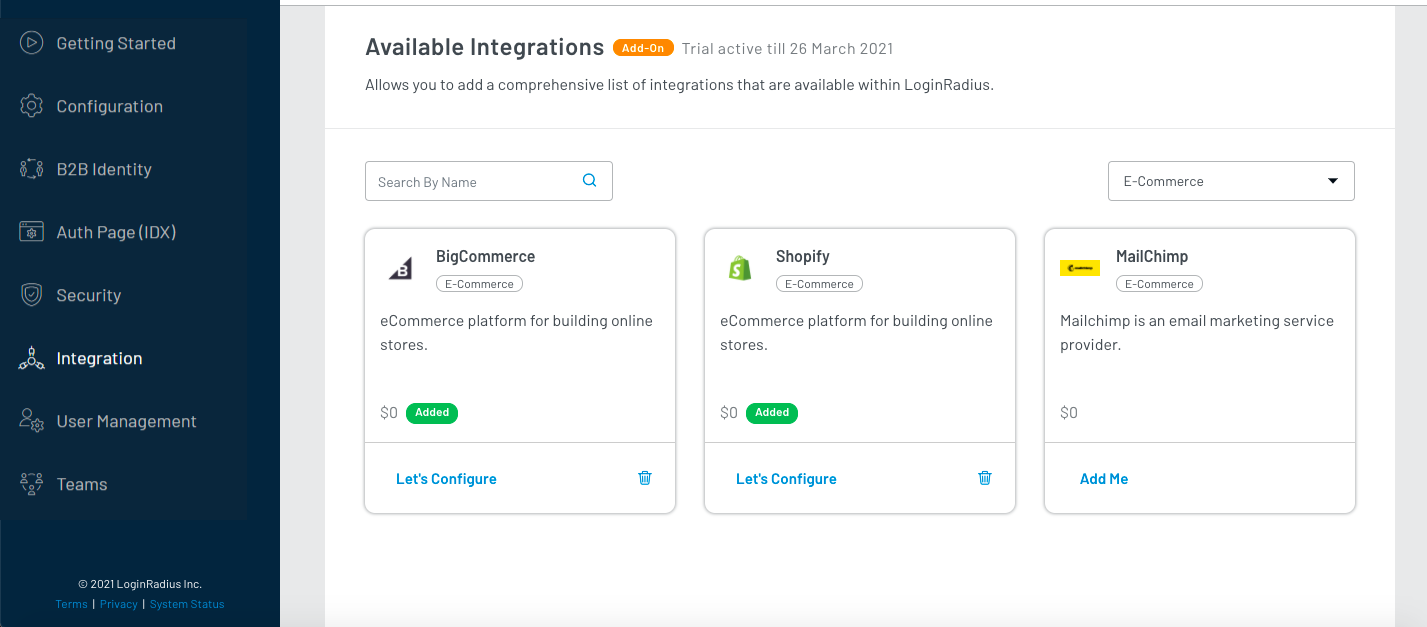
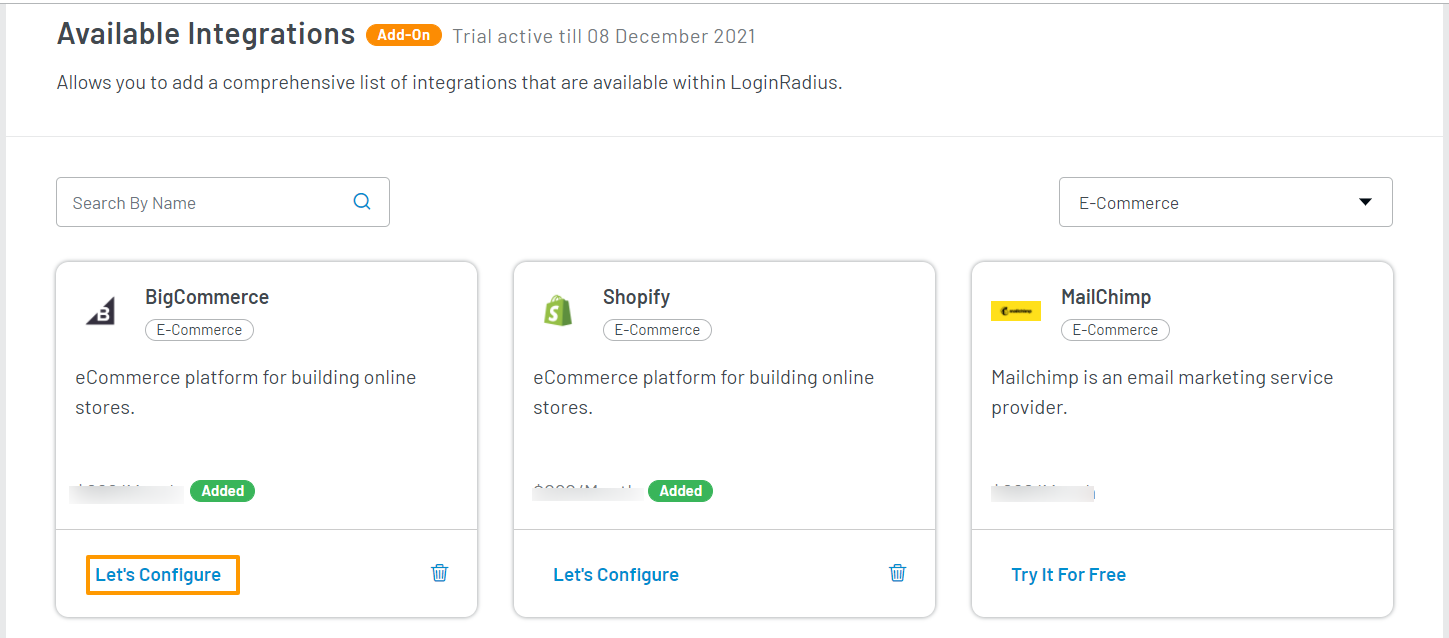
BigCommerce except passwordless

diff --git a/content/guide/big-commerce/index.md b/content/guide/big-commerce/index.md
@@ -1,6 +1,6 @@
 ---
 title: "Integrating BigCommerce"
-tags: ["Big Commerce", "BigCommerce"]
+tags: ["Big Commerce", "BigCommerce", " Passwordless BigCommerce"]
 description: "This is a guide for integrating and configuring BigCommerce in the LoginRadius Identity Platform using Stencil Plugin."
 path: "/guide/big-commerce"
 ---
@@ -11,14 +11,6 @@ path: "/guide/big-commerce"
 # BigCommerce
 
 This document provides instructions for installing the LoginRadius CIAM Plugin for Bigcommerce. This document also covers deploying the LoginRadius template code to your Stencil theme.
-
-## Get Credentials
-
-Before configuring the LoginRadius app in the Bigcommerce environment, you need to get your **API Key** and **API Secret**.
-
-In your LoginRadius Dashboard, navigate to <a href="https://dashboard.loginradius.com/configuration" target="_blank">**Configuration > API Credentials**</a> and click the **API Key And Secret** subsection to retrieve your API Credentials.
-
-![alt_text](../../assets/blog-common/api-credentials.png "image_tooltip")
 
 ## BigCommerce Configuration
 
@@ -38,7 +30,7 @@ In your LoginRadius Dashboard, navigate to <a href="https://dashboard.loginradiu
 
 5. Select the newly installed LoginRadius App on the left navigation (Apps > My Apps).
 
-6. Input your LoginRadius API Key and API Secret obtained from [Get Cedentials](#get-credentials) step and click the **Validate & Install** button.
+6. Input your <a href="https://www.loginradius.com/docs/developer/faq/#how-to-retrieve-api-key-and-secret" target="blank">LoginRadius API Key and API Secret</a> and click the **Validate & Install** button.
 
    ![alt_text](images/bigcommerce-lrinstallconfig.png "image_tooltip")
 
@@ -80,7 +72,7 @@ To support the BigCommerce SSO flows, you will need to handle the following:
 
 2. Click the **Add** button for adding a new BigCommerce app. The configuration options will appear.
 
-3. Either search for **BigCommerce** in the search bar or go to the **Select Category** dropdown and select **E-Commerce** category. Locate **BigCommerce** and click the **Add Me** option.
+3. Either search for **BigCommerce** in the search bar or go to the **Select Category** dropdown and select **E-Commerce** category. Locate **BigCommerce** and click the **Try It For Free** option.
 
    ![alt_text](images/bigcommerce-integration-search-results.png "image_tooltip")
 
@@ -100,8 +92,11 @@ To support the BigCommerce SSO flows, you will need to handle the following:
 
    - Store Name: Enter your store name. This should be a string in the API PATH when your BigCommerce ACCESS TOKEN, CLIENT ID, and CLIENT SECRET was generated. E.g. - if your API PATH is `https://api.bigcommerce.com/stores/pqshk245fh/v3/`, then your store name value should be `pqshk245fh`
 
-   - Store URL: Set this to your BigCommerce Store URL. E.g.: `http://<BIGCOMMERCE Store NAME>.mybigcommerce.com`
-
+   - Store URL: Set this to your BigCommerce Store URL. Click the **View Store** option from the left navigation screen to get your store URL:
+      
+      ![alt_text](images/viewstore.png "image_tooltip")
+        
+      
    - Store Login URL: Set this to your BigCommerce Store Login URL. E.g.: `https://<BIGCOMMERCE Store NAME>.mybigcommerce.com/login/token/`
 
    - Access Token: Enter a valid BigCommerce Access Token for an API Account, see this doc on [Creating API Accounts](https://support.bigcommerce.com/s/article/Store-API-Accounts)
@@ -120,7 +115,10 @@ To support the BigCommerce SSO flows, you will need to handle the following:
      | last_name  | LastName  |                              |
      | email      | Other     | Enter value `Email[0].Value` |
 
-     > Note: These are required fields for BigCommerce integration and you should use Key Values in the format given above.
+     > **Note:** These mapped fields are required for BigCommerce integration and you should use Key Values in the format given above. Similalry, you can map additional desired fields. 
+     >
+     > You must add all mapped fields to your <a href="https://www.loginradius.com/docs/developer/guide/custom-registration" target="blank">registration schema</a> as mandatory.
+    
 
 ## Stencil Theme Setup
 
@@ -142,8 +140,8 @@ It is recommended that you backup your theme before making any modifications if 
 
    - `storeName`: Add your BigCommerce Site Name. This should be a string in the API PATH when your BigCommerce ACCESS TOKEN, CLIENT ID, and CLIENT SECRET was generated. E.g. - if your API PATH is `https://api.bigcommerce.com/stores/pqshk245fh/v3/` , then your store name value should be `pqshk245fh`
 
-   - `option.apiKey`: Add your LoginRadius [API Key](#get-credentials).
-   - `option.appName`: Add your LoginRadius [App Name](#get-credentials).
+   - `option.apiKey`: Add your <a href="https://www.loginradius.com/docs/developer/faq/#how-to-retrieve-api-key-and-secret" target="blank">LoginRadius API Key</a>.
+   - `option.appName`: Add your <a href="https://www.loginradius.com/docs/developer/faq/#how-to-retrieve-api-key-and-secret" target="blank">LoginRadius App Name</a>
    - `option.sott`: Add a valid LoginRadius [Sott](https://www.loginradius.com/docs/developer/concepts/sott).
    - `option.verificationUrl`: You can leave this default unless you want to direct users to a specific location to validate the emails. This is required if you are using the Email add/remove the panel. You can add additional parameters to this options object if you want to include additional LoginRadius features or logic based on the parameters list here.
    - `option.askEmailForUnverifiedProfileAlways`: You can leave this `true` if you want consumers to verify their email id. Change it to `false` for consumers to proceed without email verification.
@@ -318,9 +316,9 @@ It is recommended that you backup your theme before making any modifications in 
 
    * `storeName` - Add your BigCommerce Site Name. This should be a string in the API PATH when your BigCommerce ACCESS TOKEN, CLIENT ID, and CLIENT SECRET was generated. E.g. - if your API PATH is `https://api.bigcommerce.com/stores/pqshk245fh/v3/`, then your storeName value should be `pqshk245fh`
 
-   * `option.apiKey` - Add your LoginRadius [API Key](#get-credentials)
+   * `option.apiKey` - Add your <a href="https://www.loginradius.com/docs/developer/faq/#how-to-retrieve-api-key-and-secret" target="blank">LoginRadius API Key</a>
 
-   * `option.appName` - Add your LoginRadius [App Name](#get-credentials)
+   * `option.appName` - Add your <a href="https://www.loginradius.com/docs/developer/faq/#how-to-retrieve-api-key-and-secret" target="blank">LoginRadius App Name</a>
 
    * `option.sott` - Add a valid LoginRadius [Sott](https://www.loginradius.com/docs/developer/concepts/sott)
 
@@ -417,6 +415,10 @@ The LoginRadius mapping of BigCommerce `customer_id` to ExternalIds also support
 ]
 
 ```
+<!-- ## Passwordless Login with BigCommerce
+
+Refer to <a href="https://www.loginradius.com/docs/developer/guide/bigcommerce-passwordless" target="blank"> this document</a> for configuring Passwordless Login options for your BigCommerce store. -->
+
 ## Additional Considerations
 
 1. If you are including the email manage component or account details component on your account details page, You will need to provide a standard email verification page that all email verifications will be redirected to. This page should be accessible by logged-in and logged-out users and should include the verify component.

diff --git a/content/guide/bigcommerce-passwordless/index.md b/content/guide/bigcommerce-passwordless/index.md
@@ -1,0 +1,16 @@
+---
+title: "Passwordless Login BigCommerce"
+tags: ["Big Commerce", "BigCommerce", " Passwordless BigCommerce"]
+description: "This is a guide to configure passwordless login option for your BigCommerce store. "
+path: "/guide/bigcommerce-passwordless"
+---
+
+<span class="devloper-premium plan-tag">Developer Pro</span>
+<span class="devloper-premium plan-tag">Add on</span>
+
+# Passwordless Login with BigCommerce
+This guide
+
+## LoginRadius Configurations
+
+## 
